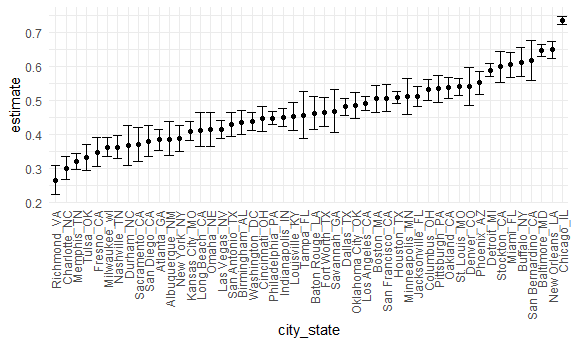
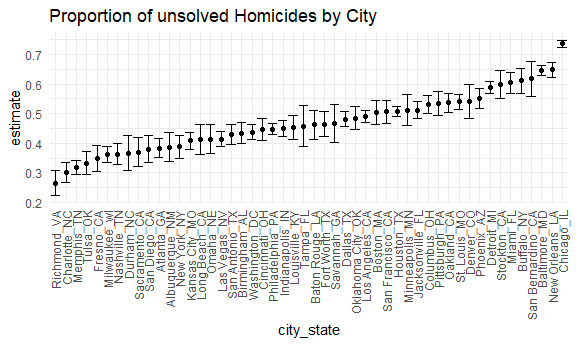
Fixing code for graphing power and tidying code

diff --git a/p8105_hw5_ly2496.md b/p8105_hw5_ly2496.md
@@ -5,6 +5,13 @@ Ling Yi
 
 Problem 1
 
+Raw Data: Dataset is from The Washington Post who gathered data on
+homicides in 50 large U.S. cities and made the data available through
+GitHub repository. The dataset contains variables such as latitude,
+longitude, state, city, victim\_sex, victim\_age, victim\_race, first
+name, last name report number, and dispostion. The dataset contains
+52178 observations.
+
 ``` r
 homicide_df = 
   read_csv("homicide_data/homicide-data.csv") %>% 
@@ -48,7 +55,7 @@ aggregate_df =
 
     ## `summarise()` ungrouping output (override with `.groups` argument)
 
-Can i do a prop tests for a single city?
+Prop test for a single city (Baltimore\_MD)
 
 ``` r
 prop.test(
@@ -62,7 +69,7 @@ prop.test(
     ##      <dbl>     <dbl>    <dbl>     <int>    <dbl>     <dbl> <chr>     <chr>      
     ## 1    0.646      239. 6.46e-54         1    0.628     0.663 1-sample~ two.sided
 
-Try to iterate……..
+Iterating into a dataframe
 
 ``` r
 results_df=
@@ -84,6 +91,9 @@ results_df %>%
   ggplot(aes(x = city_state, y = estimate))+
   geom_point() +
   geom_errorbar(aes(ymin = conf.low, ymax = conf.high))+
+  labs(
+    title = "Proportion of unsolved Homicides by City"
+  )+
   theme(axis.text.x = element_text(angle = 90, vjust = 0.5, hjust = 1))
 ```
 
@@ -428,10 +438,10 @@ sim_results_df =
 
 ``` r
 sim_results_df %>%
-mutate(reject = ifelse(p.value < '0.05', 1, 0)) %>%
-
+mutate(reject = ifelse(p.value < 0.05, 1, 0)) %>%
+filter(reject == 1) %>% 
 group_by(mu) %>%
-summarize(prop_reject = mean(reject)) %>%
+summarize(prop_reject = n()/5000) %>% 
 ggplot(aes(x = mu, y = prop_reject)) +
 geom_point() +
 labs(
@@ -443,15 +453,18 @@ y = "Power")
     ## `summarise()` ungrouping output (override with `.groups` argument)
 
 <img src="p8105_hw5_ly2496_files/figure-gfm/unnamed-chunk-11-1.png" width="90%" />
+As the true value of my increases, so does power (proportion of times
+the null is rejected). The power maximizes around when the true mean is
+between 3 and 4, where the curve flattens out at 1 after 4.
 
 ``` r
 sim_results_rej = 
-sim_results_df %>%
-mutate(reject = ifelse(p.value < '0.05', 1, 0)) %>%
-filter(reject == 1) %>% 
-group_by(mu) %>%
-summarize(mean_mu = mean(estimate)) %>%
-  mutate(decision = "rejected")
+  sim_results_df %>%
+    mutate(reject = ifelse(p.value < '0.05', 1, 0)) %>%
+    filter(reject == 1) %>% 
+    group_by(mu) %>%
+    summarize(mean_mu = mean(estimate)) %>%
+    mutate(decision = "rejected")
 ```
 
     ## `summarise()` ungrouping output (override with `.groups` argument)
@@ -459,10 +472,10 @@ summarize(mean_mu = mean(estimate)) %>%
 ``` r
 sim_results_all = 
   sim_results_df %>% 
-  mutate(reject = ifelse(p.value < '0.05', 1, 0)) %>% 
-  group_by(mu) %>% 
-  summarize(mean_mu = mean(estimate)) %>% 
-  mutate(decision = "all")
+    mutate(reject = ifelse(p.value < '0.05', 1, 0)) %>% 
+    group_by(mu) %>% 
+    summarize(mean_mu = mean(estimate)) %>% 
+    mutate(decision = "all")
 ```
 
     ## `summarise()` ungrouping output (override with `.groups` argument)
@@ -478,3 +491,6 @@ ggplot(data = sim_results_all, aes(x = mu, y = mean_mu, color = decision)) +
 ```
 
 <img src="p8105_hw5_ly2496_files/figure-gfm/unnamed-chunk-12-1.png" width="90%" />
+We see that as the true value of mu increases after 3, the mean
+estimated value of mu for when the null was rejected diverges further
+(is smaller) from the true value of mu.
